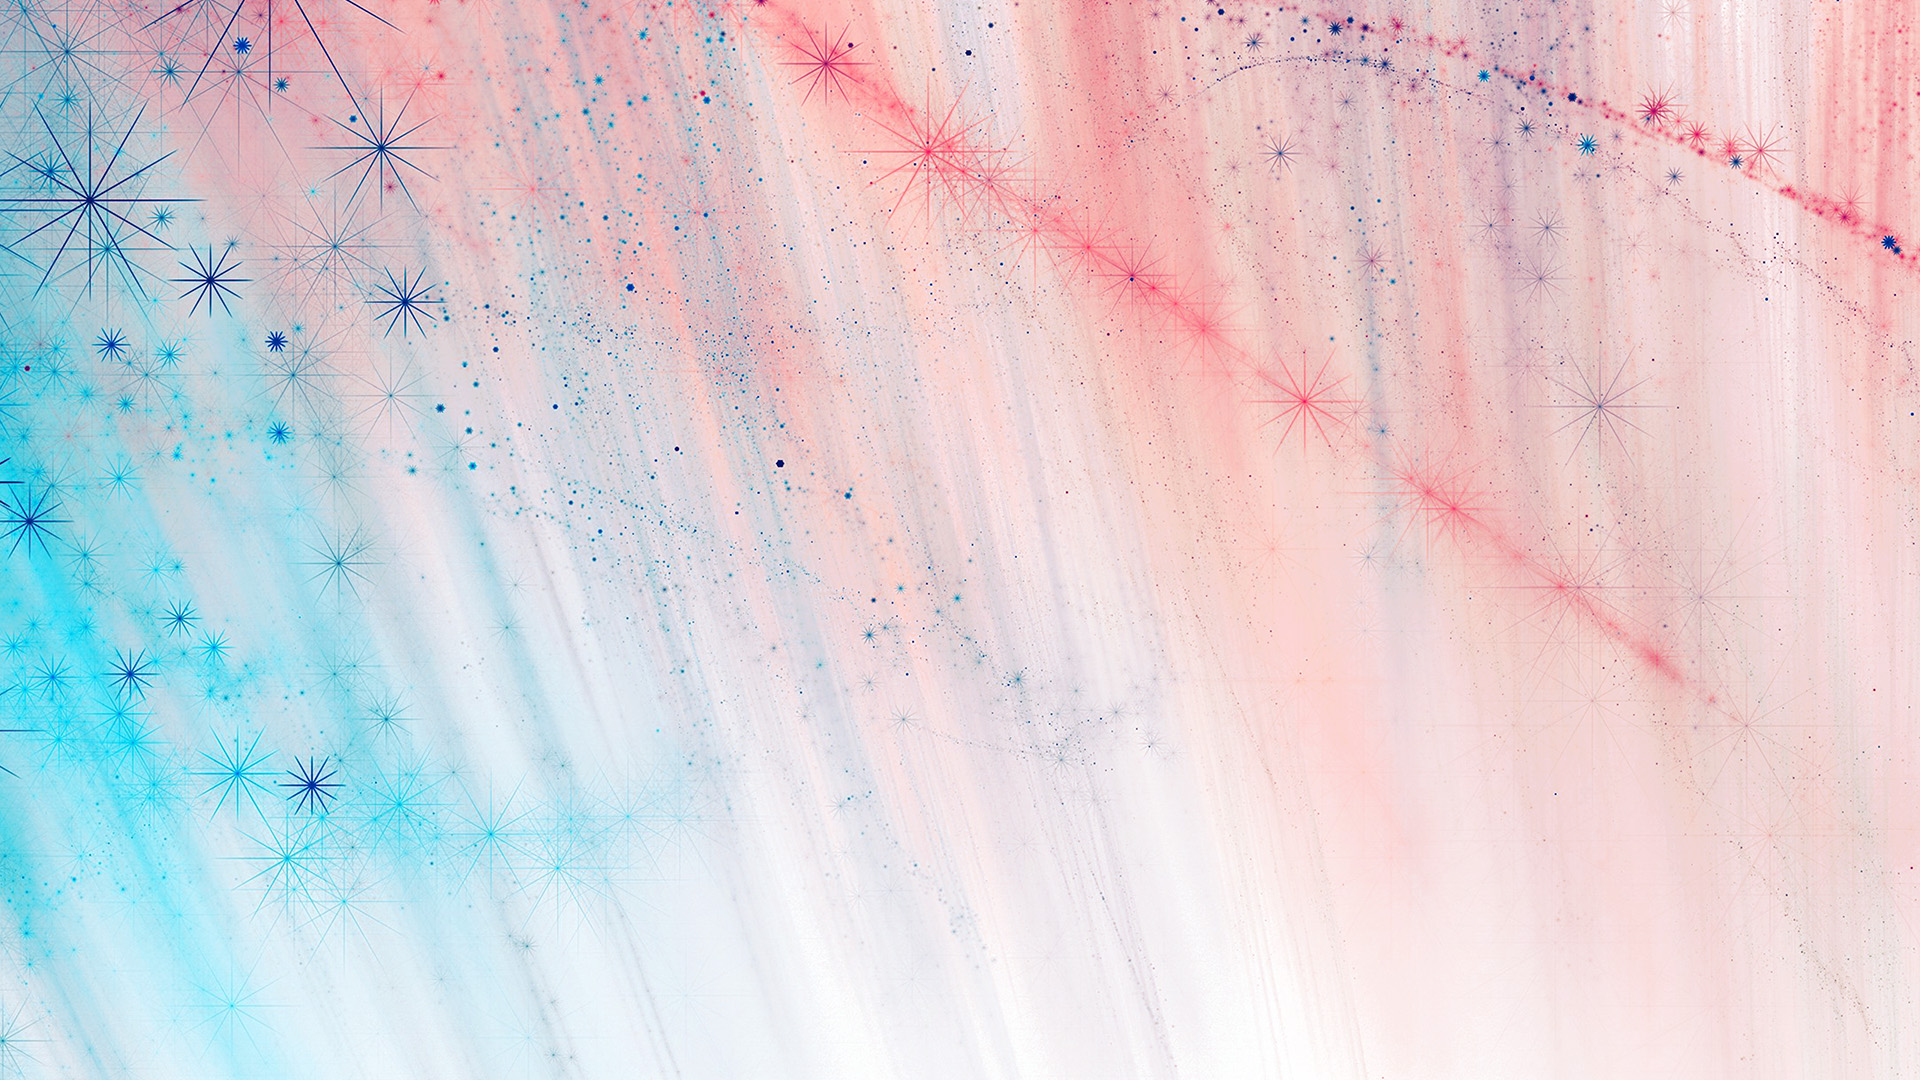
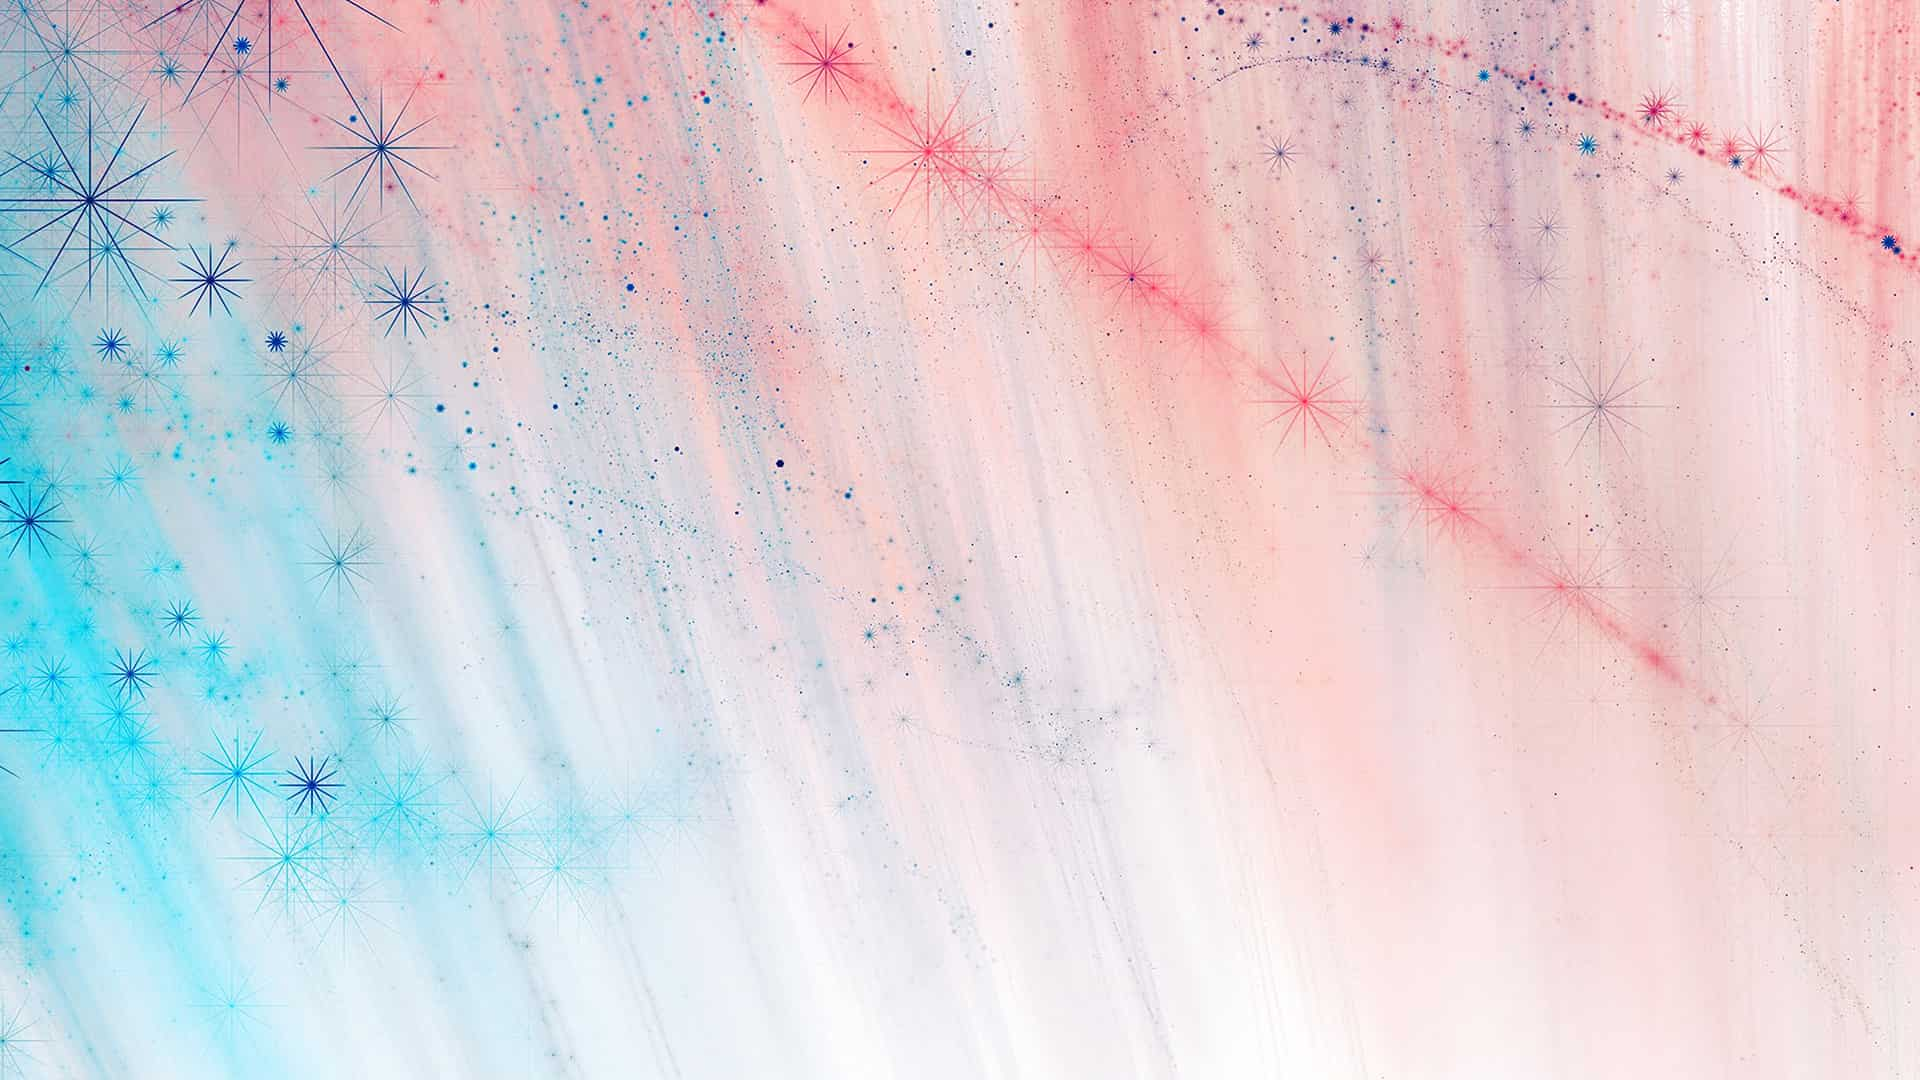
Reduced images size

diff --git a/client/src/app/core/service/basic-information.service.ts b/client/src/app/core/service/basic-information.service.ts
@@ -42,7 +42,7 @@ export class BasicInformationService {
       id: 'falling-stars',
       isDesigned: true,
       gifUrl: './../../../../assets/GIFs/falling-stars-demo.gif',
-    });
+    } as GameMenu);
     menus.push({
       name: 'Super Mario',
       image: './../../../../assets/images/GameMenu/super-mario.png',
@@ -50,7 +50,7 @@ export class BasicInformationService {
       id: 'super-mario',
       isDesigned: true,
       gifUrl: './../../../../assets/GIFs/super-mario.gif',
-    });
+    } as GameMenu);
     menus.push({
       name: 'Game',
       image: './../../../../assets/images/GameMenu/game.jpg',

diff --git a/client/src/app/modules/home/game-menu/game-menu.component.scss b/client/src/app/modules/home/game-menu/game-menu.component.scss
@@ -108,13 +108,14 @@
 
 .gif-item {
   width: 30vw;
-  height: 15vw;
+  height: 100%;
   box-shadow: 0.5rem 0.3rem 2rem black;
 }
 
 .gif-container {
   text-align: center;
   padding: 1vh;
+  height: 30vh;
 }
 
 .logo-container {

diff --git a/client/src/app/modules/games/super-mario/super-mario.component.scss b/client/src/app/modules/games/super-mario/super-mario.component.scss
@@ -1,7 +1,6 @@
 .mario-main-container {
-  height: 101vh;
+  height: 100vh;
   width: 100%;
-  top: -2vh;
   position: relative;
   background: url("../../../../assets/mario/up-mid.png") no-repeat;
   background-size: 100% 91vh;
